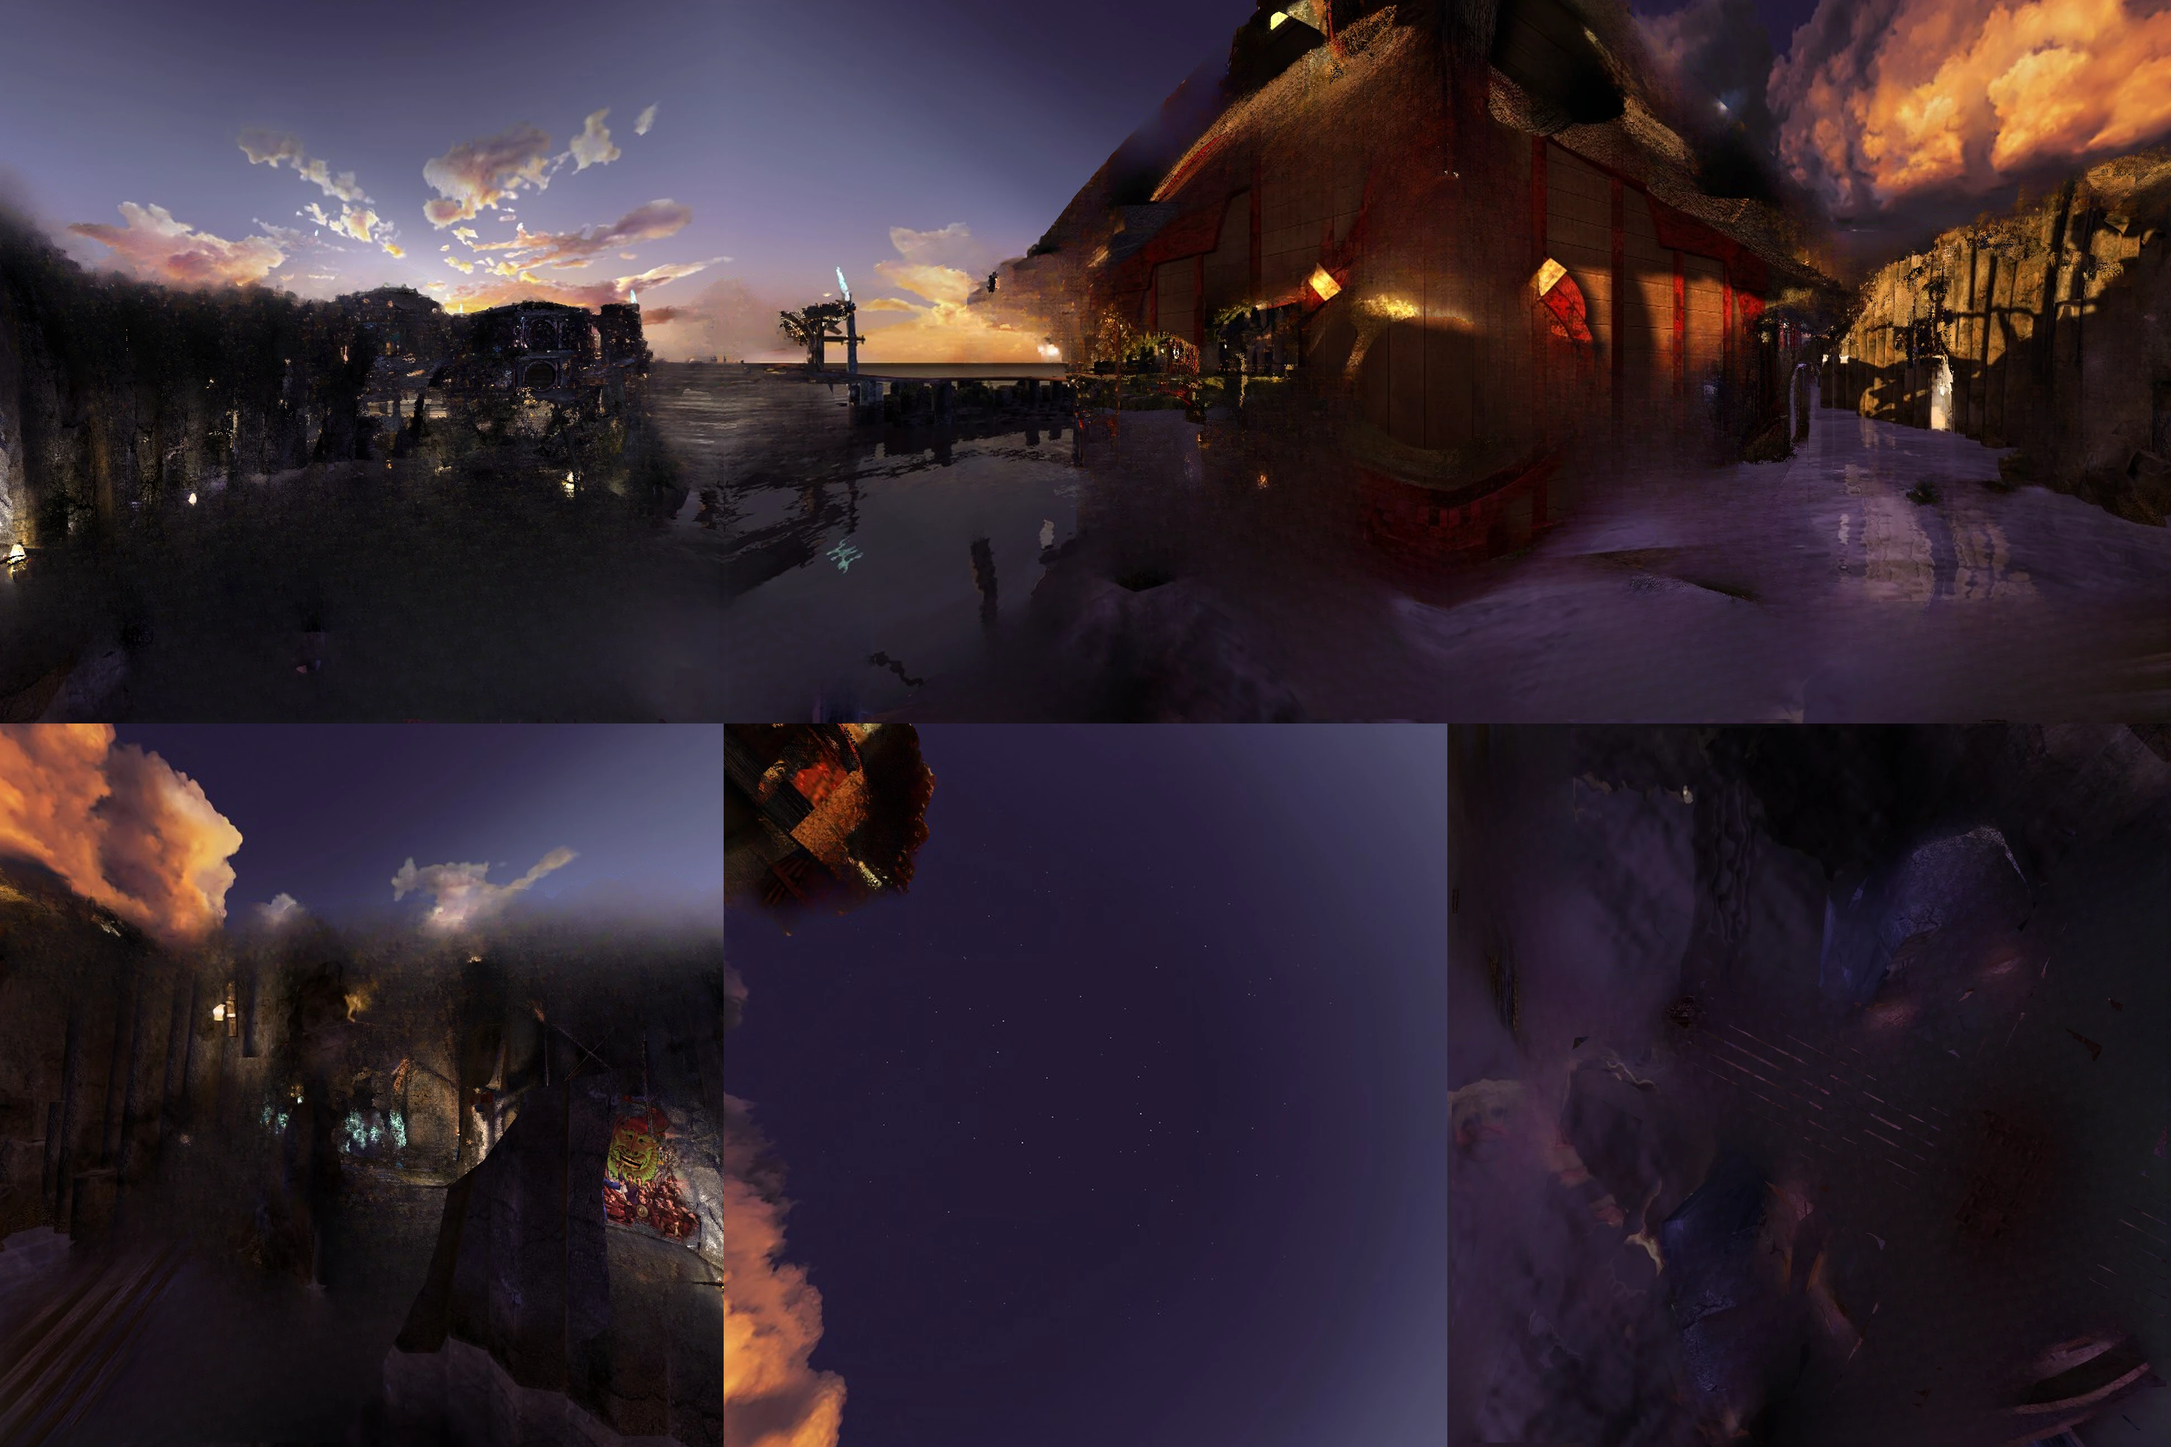
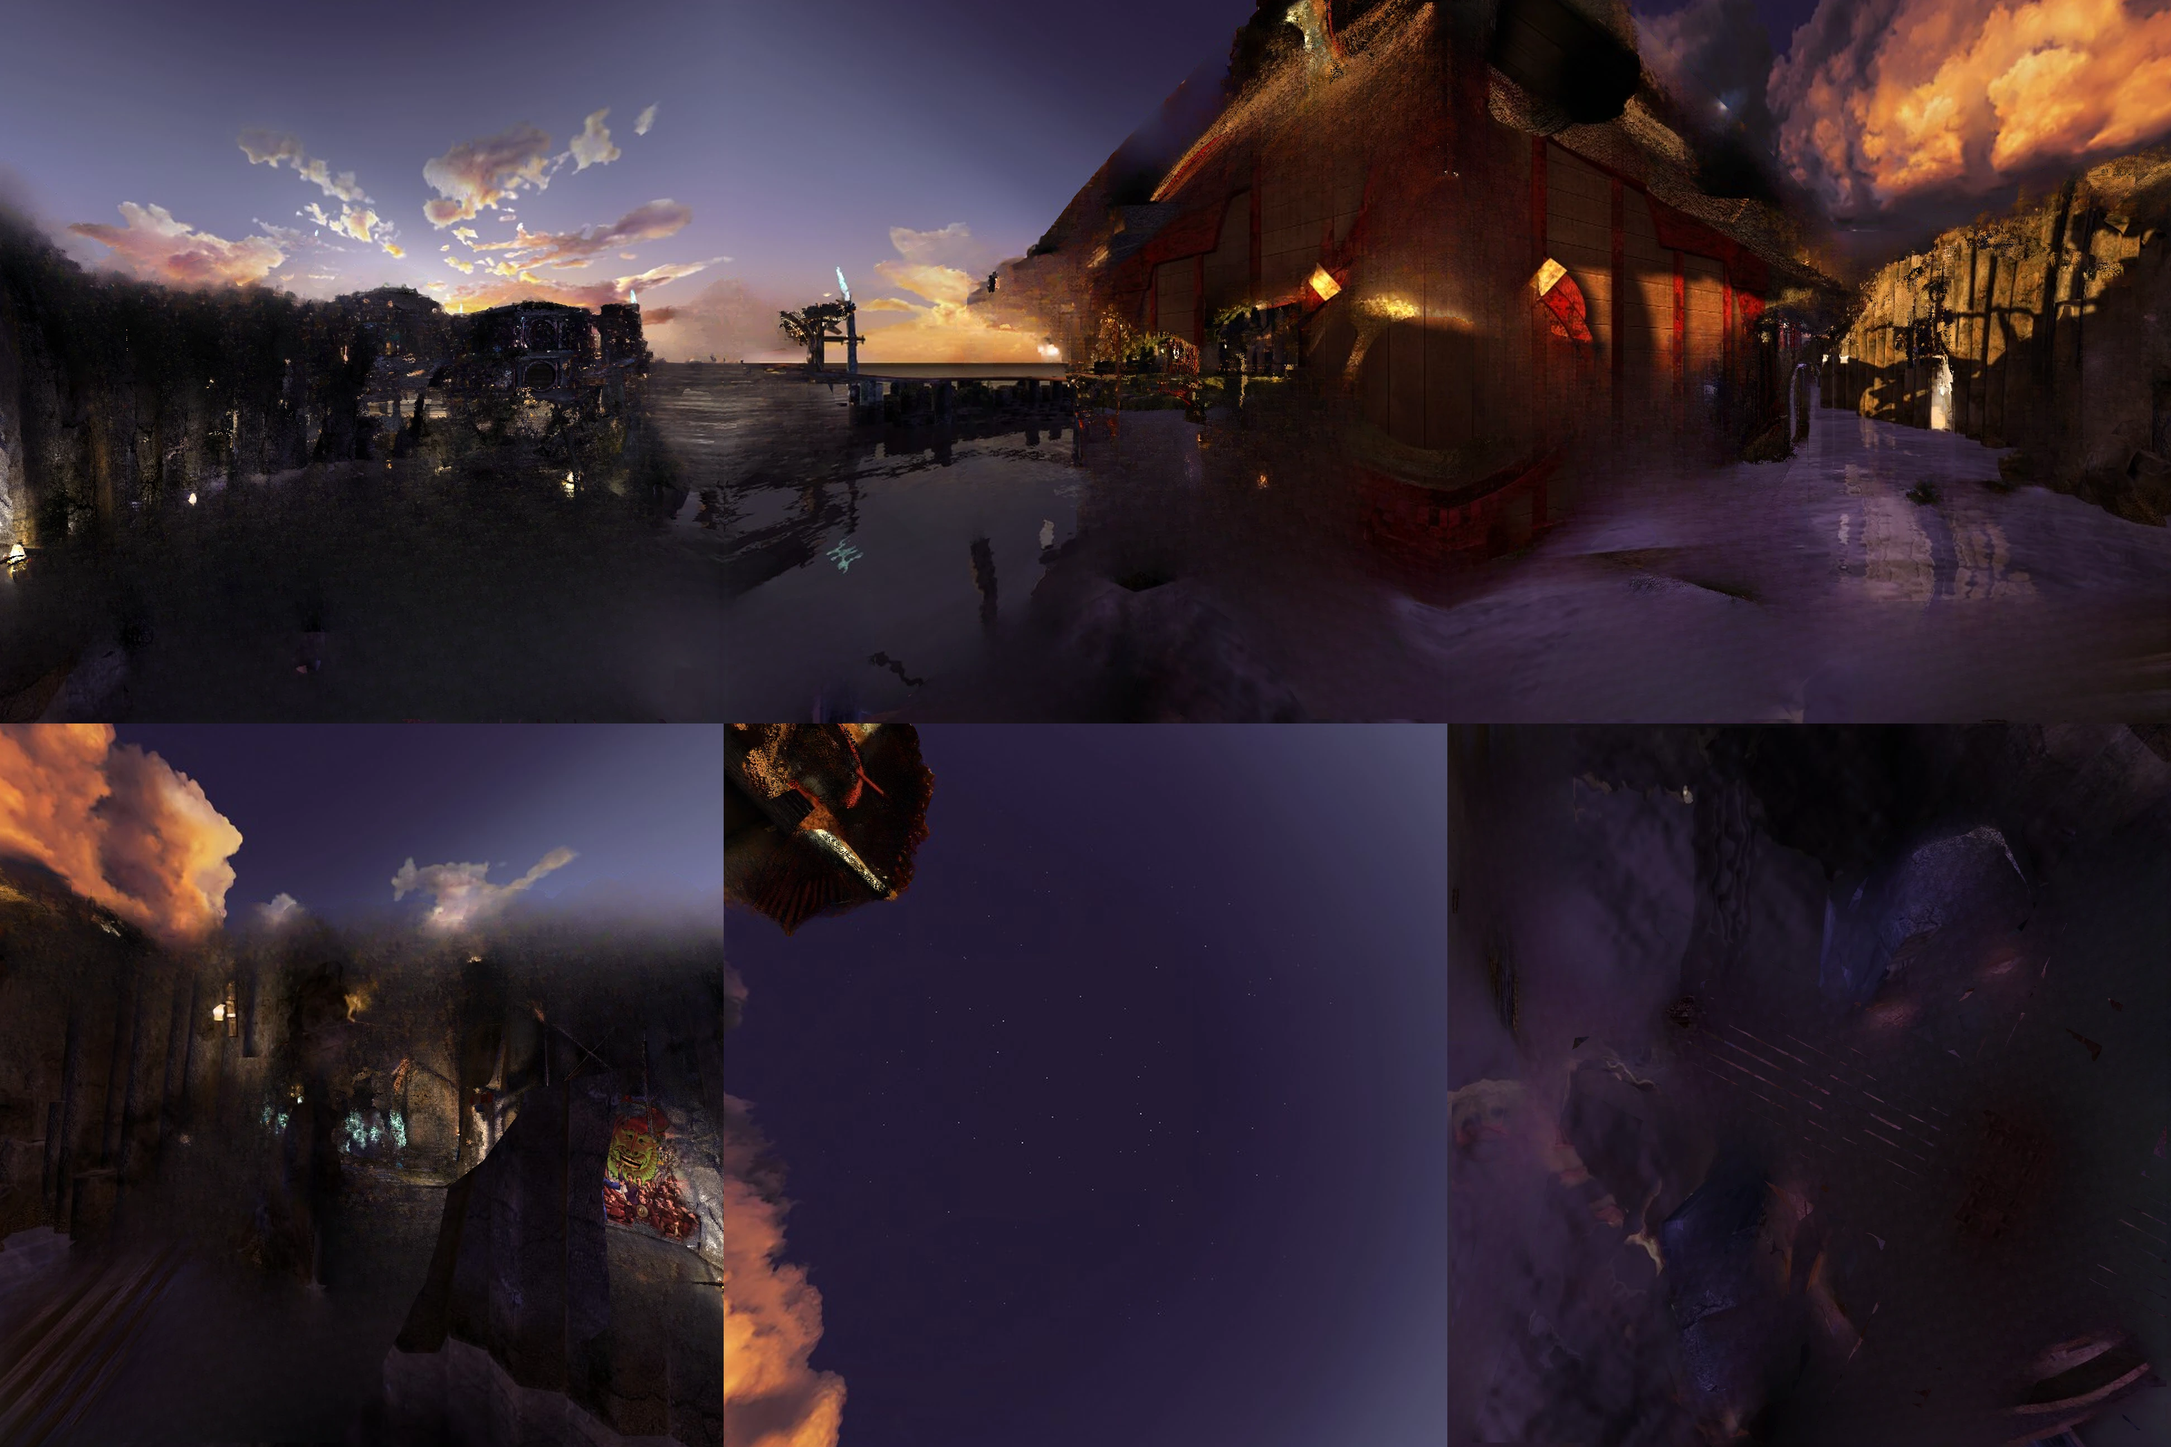
MASS 89: the roof insignia moves with the roof; the walk fades over 2 s
On MASS 89's top face the depth network drew the roof corner and its insignia
receding to 9 units, so the insignia stood still as the eye moved. The
model covers that face on 5%. transfer_depth.py gives the face MASS 84's
distances for the same roof, and the nearest of those over the insignia,
which MASS 84 cannot see past the eave: median 8.91 -> 2.32 units against
MASS 84's 2.1. agree_depth.py --seam-fit-below, tried first, fits only a
face's level. The walk's crossfade now lasts 2 s, where the 600 ms
version-switch fade read as a cut, and the other node's atlases are fetched
ahead.

Claude-Session: https://claude.ai/code/session_01PGTZsQJKeQ77ippduWGzGV

diff --git a/cube/index.html b/cube/index.html
@@ -1706,17 +1706,20 @@
     // ── Walk to the next node ──
     //
     // A location with `walk` names the location it walks to; the Walk button
-    // goes there with the viewer's own crossfade, the version kept. Every walk
-    // drawn from depth (moved meshes, a joint depth, depth from optical flow, a
-    // Gaussian splat, in-between pictures from frame interpolation) doubled or
-    // melted the scene somewhere (myst3/README.md, 9 November 2026); this does
-    // not pretend to move.
+    // goes there with the viewer's crossfade, slowed to WALK_FADE_MS (the
+    // quick 600 ms one for switching versions read as a cut), the version kept.
+    // Every walk drawn from depth (moved meshes, a joint depth, depth from
+    // optical flow, a Gaussian splat, in-between pictures from frame
+    // interpolation) doubled or melted the scene somewhere (myst3/README.md,
+    // 9 November 2026); this does not pretend to move.
+    const WALK_FADE_MS = 2000;
     const walkBtn = document.getElementById('walk-toggle');
     function walkLabel() {
       const cfg = currentLocation && currentLocation.walk;
       walkBtn.style.display = cfg ? 'inline-flex' : 'none';
       walkBtn.textContent = 'Walk';
       walkBtn.title = cfg ? `Walk to ${cfg.label}` : '';
+      if (cfg) prefetchWalk();
     }
     walkBtn.addEventListener('click', () => {
       const cfg = currentLocation && currentLocation.walk;
@@ -1728,8 +1731,23 @@
       currentVersionIndex = Math.max(0, to.versions.findIndex(x => x.label === (v && v.label)));
       applyDepthDefault(to);
       updateUI();
-      loadPanorama('fade');
+      loadPanorama('fade', WALK_FADE_MS);
     });
+    // The other node's pictures fetched while standing here, so the crossfade
+    // starts on the tap instead of after a load.
+    const walkFetched = new Set();
+    function prefetchWalk() {
+      const cfg = currentLocation && currentLocation.walk;
+      const to = cfg && locations.find(l => l.name === cfg.to);
+      const v = to && to.versions.find(x => x.layers);
+      if (!v) return;
+      for (const f of Object.values(v.layers)) {
+        const url = to.baseUrl + f;
+        if (walkFetched.has(url)) continue;
+        walkFetched.add(url);
+        fetch(url).catch(() => walkFetched.delete(url));
+      }
+    }
 
     // Side-by-side 3D, the phone upright: each eye gets half the screen, the
     // left picture drawn from half an eye spacing to the left. 'parallel' is
@@ -2268,7 +2286,7 @@
     });
     document.getElementById('load-error-dismiss').addEventListener('click', hideLoadError);
 
-    async function loadPanorama(mode = 'block') {
+    async function loadPanorama(mode = 'block', fadeMs = null) {
       if (isTransitioning) return;
       const loadId = ++currentLoadId;
       isTransitioning = true;
@@ -2607,7 +2625,7 @@
         setTransitionUniform('tDepthNew', dummyDepthTex);
       }
 
-      const duration = mode === 'block' ? 1400 : 600;
+      const duration = fadeMs || (mode === 'block' ? 1400 : 600);
       const startTime = performance.now();
       function animateTween(now) {
         if (loadId !== currentLoadId) return;

diff --git a/cube/myst3/colmap/transfer_depth.py b/cube/myst3/colmap/transfer_depth.py
@@ -1,0 +1,105 @@
+#!/usr/bin/env python3
+"""
+Depth for a node's poorly covered faces from a neighbouring node's view of the
+same surfaces.
+
+    python transfer_depth.py IMAGES SPARSE_TXT OUT_DIR --target 4089 DEPTH_DIR JSON
+        --source 4084 DEPTH_DIR JSON --faces 6 [--gate 3] [--blur 4]
+
+Both nodes' depths are node_depth.py's encoding (DEPTH_DIR/MA-<node>-<k>
+_measured-depth.png, r_far in JSON, the model's units: SPARSE_TXT the model
+both were measured in). The source node's points, from all six faces, are
+drawn into each of the target's --faces (nearest wins, pinholes closed);
+where the target has depth (not sky) and the source lands within --gate times
+its distance either way (further off is taken for something else seen past
+the edge of a thing), the target takes the source's distance, as a
+correction spread over --blur px so its edges do not step. With
+--fill-uncovered, what the source does not see of a solid shape it partly
+covers takes the distance of the nearest covered pixel of the same shape. Sky stays sky;
+the target's other faces are copied unchanged; r_far is the target's.
+
+Made for MASS 89's top face: the model is reliable on 5% of it, and the depth
+network drew the roof corner and its insignia receding to 9 units, where the
+walls beside it, and MASS 84's top face seeing the same roof, have it at about
+2; the insignia stood still as the eye moved. Needs numpy, Pillow,
+opencv-python; view_check.py and walk_joint.py beside it.
+"""
+import argparse
+import json
+import os
+import shutil
+import sys
+
+import cv2
+import numpy as np
+from PIL import Image
+
+sys.path.insert(0, os.path.dirname(os.path.abspath(__file__)))
+from view_check import read_model  # noqa: E402
+from walk_joint import load, project  # noqa: E402
+
+RATIO = 20.0
+
+
+def main():
+    ap = argparse.ArgumentParser(description=__doc__, formatter_class=argparse.RawDescriptionHelpFormatter)
+    ap.add_argument('images'); ap.add_argument('sparse'); ap.add_argument('out')
+    ap.add_argument('--target', nargs=3, required=True, metavar=('NODE', 'DEPTH_DIR', 'JSON'))
+    ap.add_argument('--source', nargs=3, required=True, metavar=('NODE', 'DEPTH_DIR', 'JSON'))
+    ap.add_argument('--faces', type=int, nargs='+', required=True)
+    ap.add_argument('--gate', type=float, default=3.0); ap.add_argument('--blur', type=float, default=4.0)
+    ap.add_argument('--fill-uncovered', action='store_true',
+                    help="what the source does not see of a solid shape it partly covers takes the nearest covered distance (needs scipy)")
+    a = ap.parse_args()
+    _, imgs = read_model(a.sparse)
+    T = load(a.images, imgs, *a.target, None)
+    S = load(a.images, imgs, *a.source, None)
+    os.makedirs(a.out, exist_ok=True)
+    report = {}
+    for k, fc in T['faces'].items():
+        name = f'MA-{T["node"]}-{k}_measured-depth.png'
+        if k not in a.faces:
+            shutil.copy(os.path.join(a.target[1], name), os.path.join(a.out, name))
+            continue
+        r0 = fc['r']
+        rs = project(S, fc)
+        has = np.isfinite(rs) & np.isfinite(r0) & ~fc['sky']
+        has &= (rs < r0 * a.gate) & (rs > r0 / a.gate)
+        lc = np.where(has, np.log(np.where(has, rs, 1) / np.where(has, r0, 1)), 0.0)
+        wt = cv2.GaussianBlur(has.astype(np.float32), (0, 0), a.blur)
+        cs = cv2.GaussianBlur(lc.astype(np.float32), (0, 0), a.blur) / np.maximum(wt, 1e-6)
+        corr = np.where(has, lc, np.where(wt > 0.02, cs * np.clip(wt / 0.2, 0, 1), 0.0))
+        r = np.where(fc['sky'], np.nan, r0 * np.exp(corr))
+        solid = np.isfinite(r0) & ~fc['sky']
+        if a.fill_uncovered:
+            # what the source does not see of a solid shape it partly covers (MASS 89's
+            # roof insignia, hidden from MASS 84 behind the eave) takes the distance of
+            # the nearest covered pixel of the same shape, then a light smoothing
+            from scipy import ndimage
+            n, lab = cv2.connectedComponents(solid.astype(np.uint8))
+            fill = solid & ~has
+            for i in range(1, n):
+                part = lab == i
+                if not (part & has).any() or not (part & fill).any():
+                    continue
+                _, (iy, ix) = ndimage.distance_transform_edt(~(part & has), return_indices=True)
+                src = r[iy, ix]
+                m = part & fill
+                r[m] = src[m]
+            rs_ = cv2.GaussianBlur(np.where(solid, np.log(np.where(solid, r, 1)), 0).astype(np.float32), (0, 0), 2)
+            ws_ = cv2.GaussianBlur(solid.astype(np.float32), (0, 0), 2)
+            r = np.where(fill, np.exp(rs_ / np.maximum(ws_, 1e-6)), r)
+        q = np.where(fc['sky'], 0.0, T['r_far'] / np.maximum(np.where(np.isfinite(r), r, T['r_far']), 1e-9))
+        d8 = np.where(fc['sky'], 0, np.maximum(np.rint(np.clip((q - 1) / (RATIO - 1), 0, 1) * 255), 1)).astype(np.uint8)
+        Image.fromarray(d8).save(os.path.join(a.out, name))
+        report[k] = {'covered_by_source': float(has.sum() / max(1, solid.sum())),
+                     'median_before': float(np.nanmedian(r0[solid])) if solid.any() else None,
+                     'median_after': float(np.nanmedian(r[solid])) if solid.any() else None}
+        print(f'face {k}: {T["node"]}\'s depth taken from {S["node"]}\'s on {has.sum() / max(1, solid.sum()) * 100:.0f}% '
+              f'of what is not sky; distance median {report[k]["median_before"]:.2f} -> {report[k]["median_after"]:.2f}', flush=True)
+    with open(os.path.join(a.out, 'agree_depth.json'), 'w') as fh:
+        json.dump({'r_far': T['r_far'], 'transfer': {'from': S['node'], 'faces': report}}, fh, indent=1)
+
+
+if __name__ == '__main__':
+    main()

diff --git a/cube/myst3/colmap/agree_depth.py b/cube/myst3/colmap/agree_depth.py
@@ -50,7 +50,7 @@ import numpy as np
 from PIL import Image
 
 sys.path.insert(0, os.path.dirname(os.path.abspath(__file__)))
-from node_depth import feather  # noqa: E402
+from node_depth import edge_pairs, feather  # noqa: E402
 
 RATIO = 20.0
 
@@ -89,6 +89,41 @@ def cloud_q(xyz, R, t, N, norm, r_far, scale, q, mask, window=5, behind=0.6, gat
     return np.where(has, qc, 0.0)
 
 
+def seam_fit(faces, report, names, N, below, min_pairs=40):
+    """A face the mesh barely covers keeps its depth's shape but takes its level
+    from its neighbours: one factor on its distances, the median ratio of the
+    neighbour's distance to its own across every seam where both have depth (so
+    the sky, on both sides of most of a top face's seams, does not vote). Faces
+    are fitted most covered first, and each fitted face then counts as a
+    neighbour. MASS 89's top face, 5% covered: the network put the roof corner
+    and its insignia far off, so the insignia stood still as the eye moved,
+    while on the walls beside it the roof is near."""
+    pairs = edge_pairs(N, N)
+    order = sorted(range(1, 7), key=lambda k: -report[names[k - 1]]['mesh_good'])
+    done = [k for k in order if report[names[k - 1]]['mesh_good'] >= below]
+    for k in [k for k in order if k not in done]:
+        ratios = []
+        for (kk, edge), e in pairs.items():
+            if kk != k:
+                continue
+            v, u, j, v2, u2 = e.T
+            r1 = faces[k]['r'][v, u]
+            r2 = np.array([faces[jj]['r'][vv, uu] if jj in done else np.inf for jj, vv, uu in zip(j, v2, u2)])
+            ok = np.isfinite(r1) & np.isfinite(r2)
+            ratios.append(r2[ok] / r1[ok])
+        ratios = np.concatenate(ratios) if ratios else np.zeros(0)
+        name = names[k - 1]
+        if len(ratios) >= min_pairs:
+            f = float(np.median(ratios))
+            faces[k]['r'] = faces[k]['r'] * f
+            report[name]['seam_factor'] = f
+            print(f'{name}: mesh reliable on {report[name]["mesh_good"] * 100:.1f}%: distances times {f:.2f} '
+                  f'to meet its neighbours at {len(ratios)} seam pixels', flush=True)
+        else:
+            print(f'{name}: too few seam pixels with depth on both sides ({len(ratios)}); left as it is', flush=True)
+        done.append(k)
+
+
 def solve(q, gx, gy, wx, wy, anchor, wa):
     """The field whose differences are gx, gy (weights wx, wy) and which is held
     to anchor with weights wa."""
@@ -121,6 +156,8 @@ def main():
     ap.add_argument('--cloud', help='a fused cloud (fused.ply): a network step the cloud bears out is kept')
     ap.add_argument('--sparse', help="with --cloud: the cloud's text model, with the node's faces (f<k>/MA-<node>.jpg)")
     ap.add_argument('--scale', type=float, default=1.0, help="with --cloud: the model's units in the site depth's")
+    ap.add_argument('--seam-fit-below', type=float, default=0.0,
+                    help='a face the mesh is reliable on less of than this share takes its level from its neighbours at the seams (seam_fit)')
     ap.add_argument('--masks'); ap.add_argument('--node')
     ap.add_argument('--prefix', default='MA-', help="the node's pictures in the model are f<k>/<prefix><node>.jpg (ENSI-, LEIS-)")
     ap.add_argument('--band', type=int, default=48)
@@ -204,6 +241,8 @@ def main():
         report[name] = {'flattened_pairs': flat, 'mesh_good': float(good.mean())}
         print(f'{name}: mesh reliable on {good.mean() * 100:.1f}%; {flat} network steps the mesh does not have flattened', flush=True)
         faces[k] = {'r': np.where(qn > 0, r_far / np.maximum(qn, 1e-12), np.inf), 'name': name}
+    if a.seam_fit_below > 0:
+        seam_fit(faces, report, a.names, N, a.seam_fit_below)
     feather(faces, N, N, a.band)
     allr = np.concatenate([f['r'][::4, ::4].ravel() for f in faces.values()])
     allr = allr[np.isfinite(allr)]

diff --git a/cube/myst3/README.md b/cube/myst3/README.md
@@ -1405,7 +1405,9 @@ against 20.8), halfway much the same. More distant pictures do not help.
 
 **The walk is a crossfade** (10 November 2026). After every walk drawn from
 depth or from a model above doubled, smeared, melted or snapped, the walk
-became a change of location with the viewer's own crossfade: MASS 89 is a
+became a change of location with the viewer's crossfade, slowed to 2 s
+(the 600 ms one for switching versions read as a cut), the other node's
+atlases fetched while standing at a node: MASS 89 is a
 location of its own (Layered only, `layers/nodes/mass89.json`: depth from
 agree_depth.py as MASS 84's, holes 10.3% of the atlas), and each node's Walk
 button goes to the other. The walk's meshes, video and splat code and their
@@ -1414,6 +1416,18 @@ stay. Layered is now the one standard version wherever it exists (the
 Original versions are gone; at depth 0 Layered draws the original picture),
 with the AI versions still folded away; Edanna, with no Layered build,
 keeps its Original.
+
+**MASS 89's roof insignia** (10 November 2026) stood still as the eye moved:
+on its top face, which the model covers on 5%, the depth network drew the
+roof corner and insignia receding to 9 units (median), where MASS 84's top
+face has the same roof at 2.1. Fitting the face's level at its seams
+(`agree_depth.py --seam-fit-below`) only brought it to 7.0: the shape was
+wrong, not the level. `colmap/transfer_depth.py` gives a poorly covered face
+the distances a neighbouring node's depth has for the same surfaces (its
+points drawn into the face, within --gate times either way), and with
+`--fill-uncovered` the nearest of those over the rest of the same shape (the
+insignia, hidden from MASS 84 by the eave): MASS 89's top face from MASS 84,
+gate 6, median 8.91 -> 2.32. MASS 89 rebuilt from it.
 
 **Starting depth from the score.** The viewer draws depth d as
 r = R / (1 + K d), K = 19 s^1.6 for the slider at s; the measured depth is
